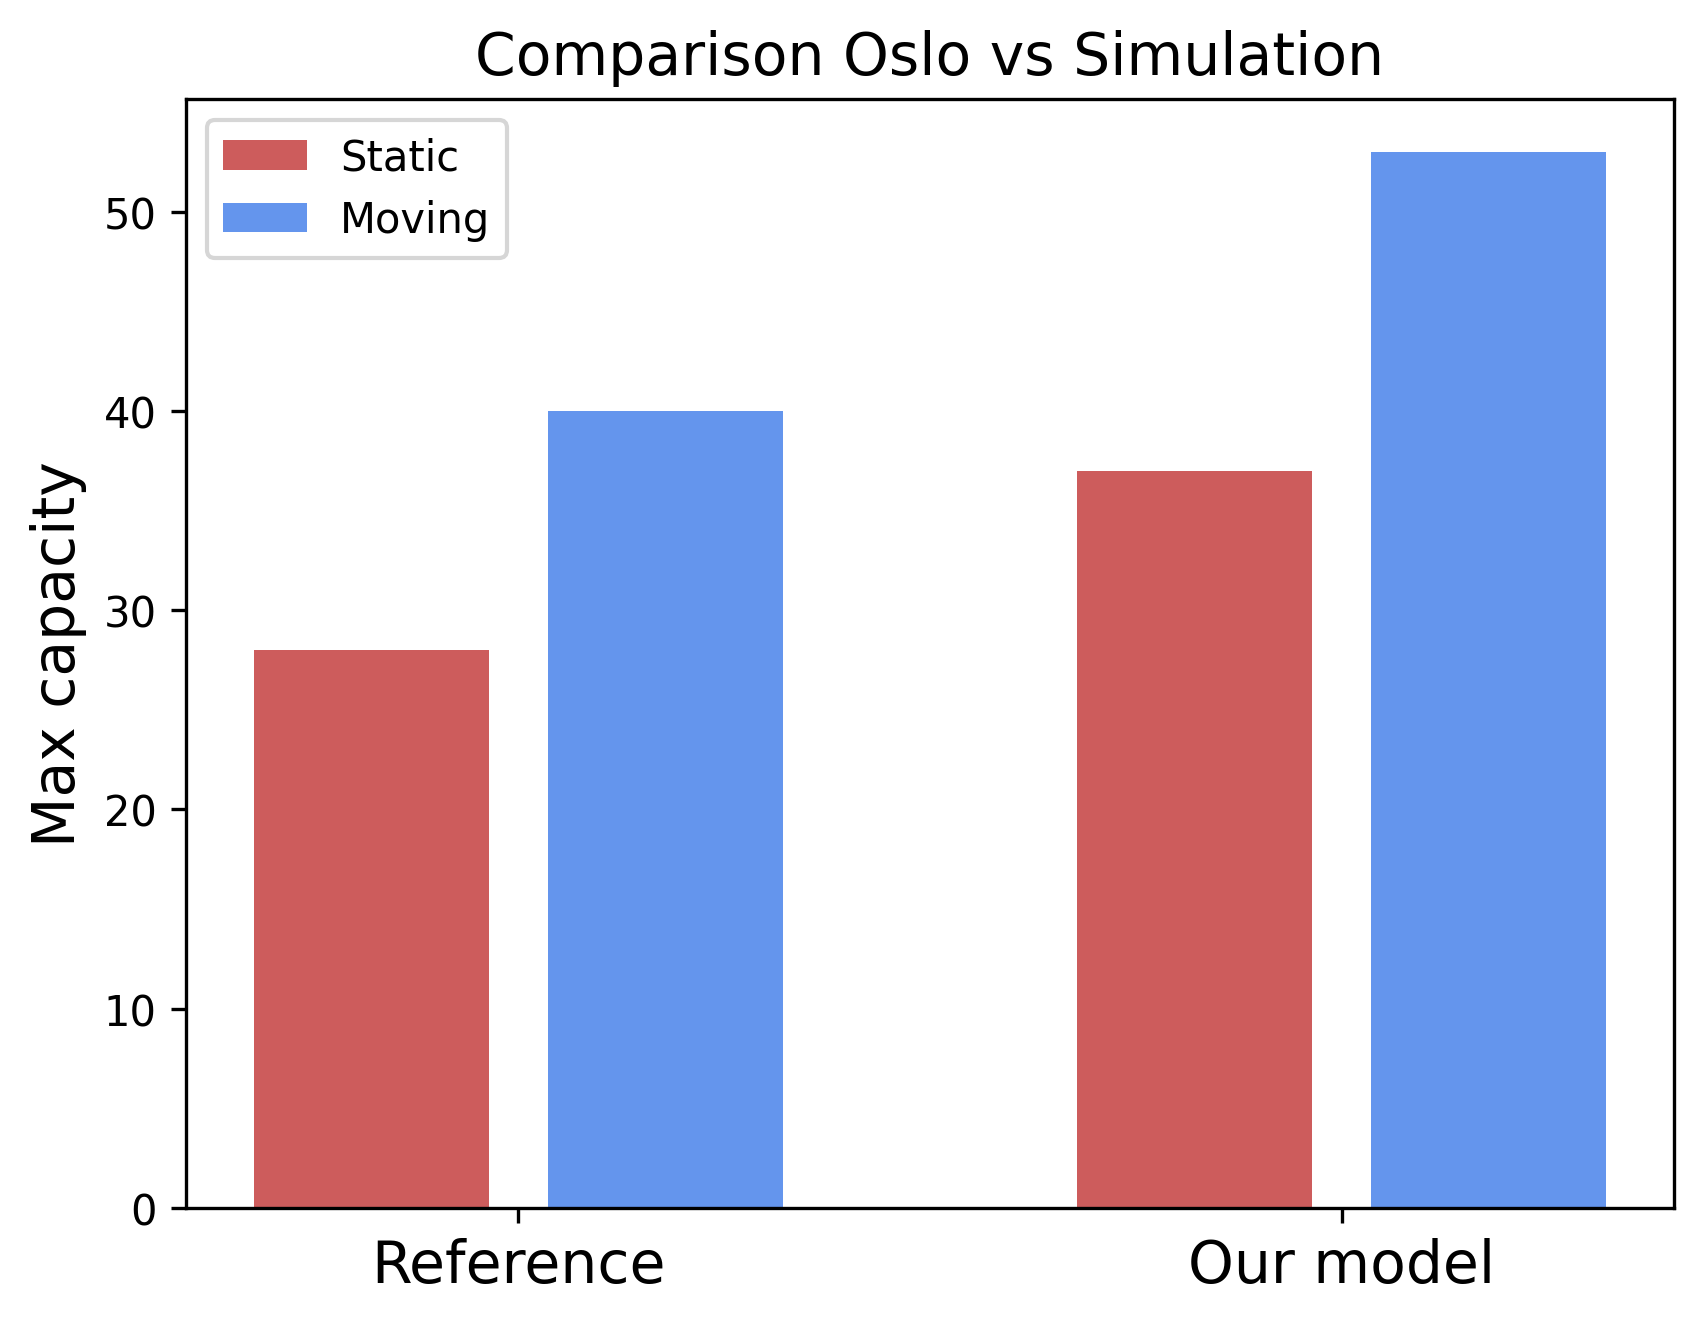
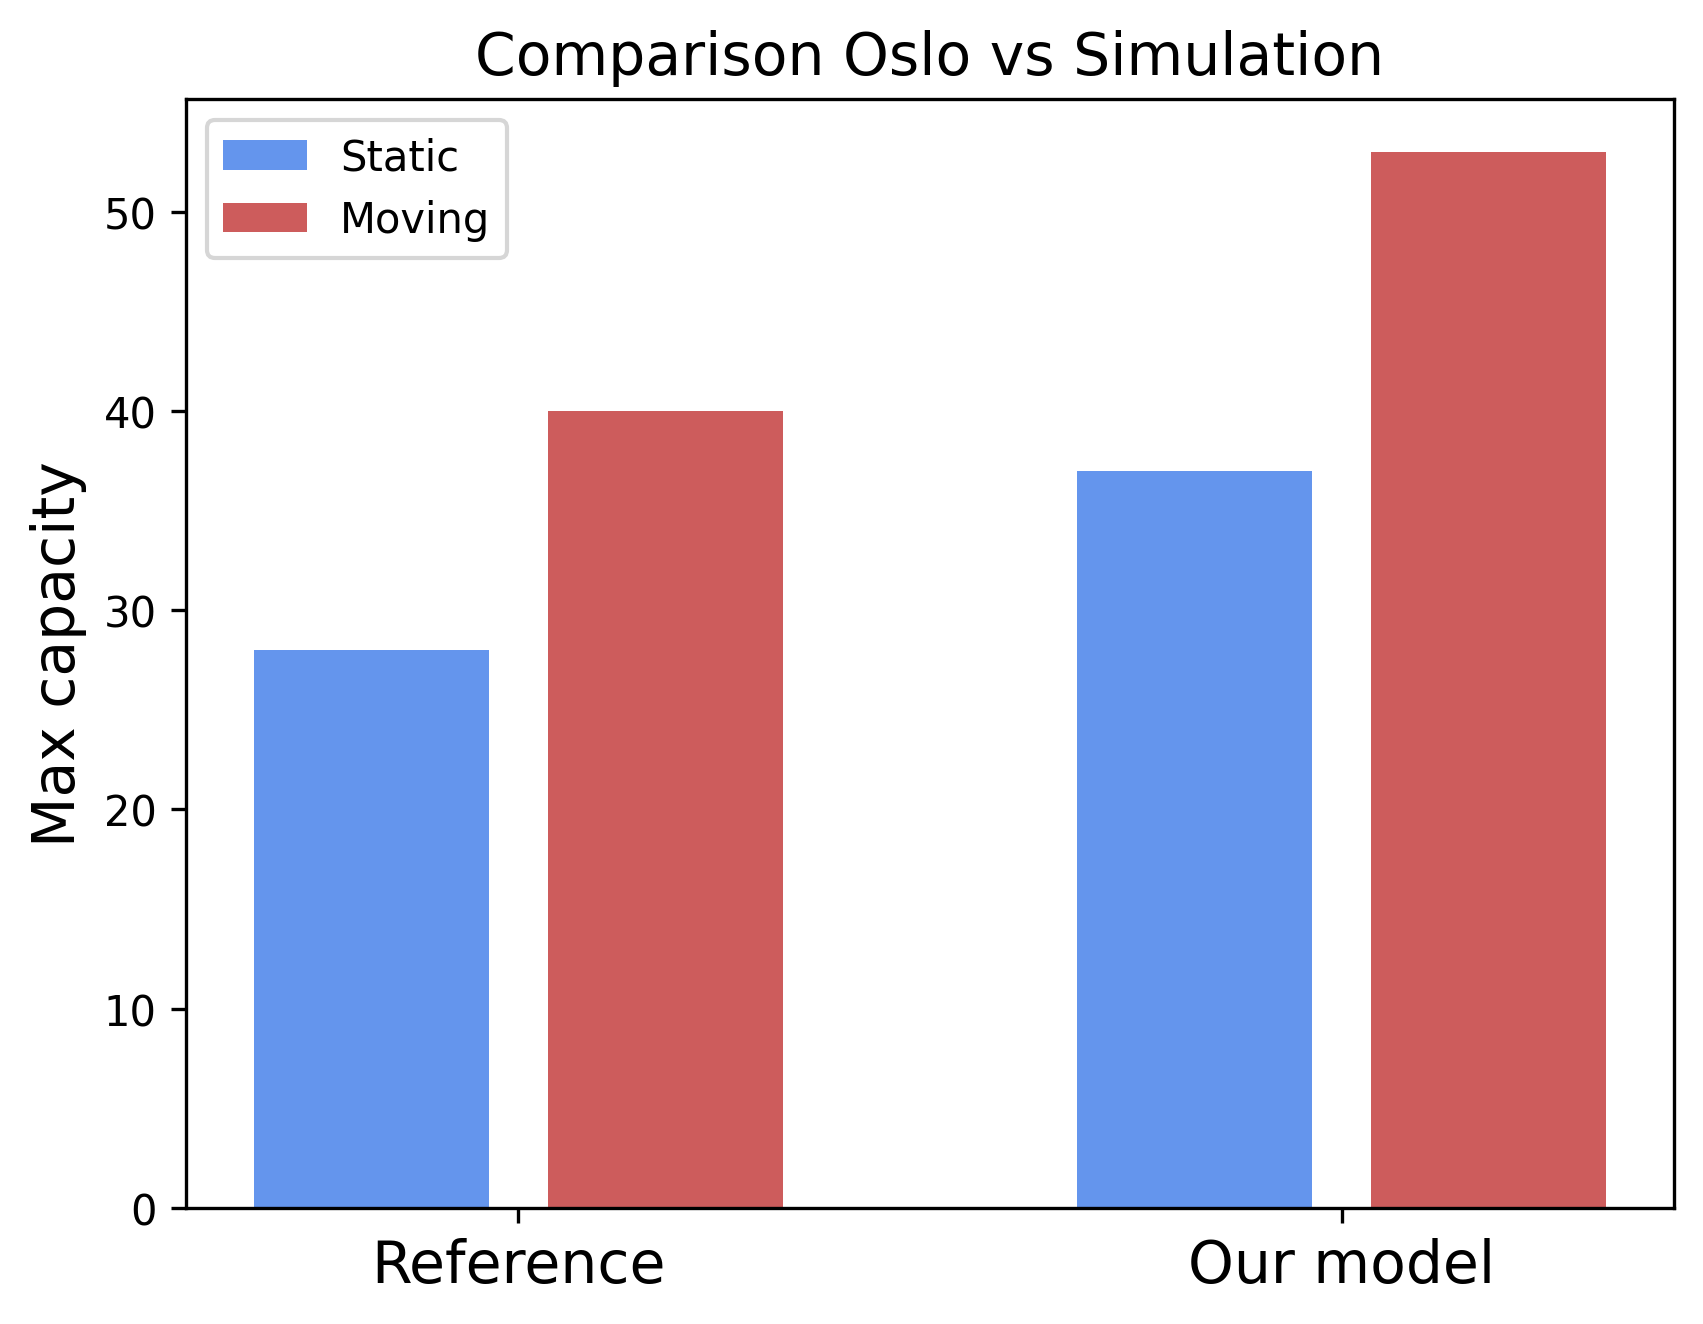
Capacity per Number of Trains

diff --git a/analysis/capacityPerTrain.py b/analysis/capacityPerTrain.py
@@ -1,0 +1,31 @@
+import json
+import matplotlib.pyplot as plt
+
+with open("result.json", 'r') as fp:
+    data = json.load(fp)
+
+sprinter_data = data["sprinter"]
+max_trains = 25
+
+num_trains = [0]
+static_capacity = [0]
+moving_capacity = [0]
+i = 0
+for measurement in sprinter_data['wide']:
+    num_trains.append(measurement[0])
+    static_capacity.append(measurement[1][0][0])
+    moving_capacity.append(measurement[1][0][1])
+    i += 1
+    if i >= max_trains:
+        break
+
+plt.figure(figsize=(10,6))
+plt.plot(num_trains, static_capacity, label="Max Static Capacity", marker='o', color="cornflowerblue")
+plt.plot(num_trains, moving_capacity, label="Max Moving Capacity", marker='x', color="indianred")
+plt.xlabel("Number of trains", fontsize=15)
+plt.ylabel("Capacity", fontsize=15)
+plt.title("Capacity per Number of Trains", fontsize=15)
+plt.legend()
+plt.grid(True)
+plt.savefig("../plots/capacity_per_train.png", bbox_inches="tight", dpi=300)
+plt.show()

diff --git a/analysis/Oslo_test.py b/analysis/Oslo_test.py
@@ -39,8 +39,8 @@ group_spacing = 0.7
 
 x = np.arange(len(groups)) * group_spacing
 plt.figure()
-plt.bar(x - (width/2 + in_group_spacing), static_values, width, label='Static', color='indianred')
-plt.bar(x + (width/2 + in_group_spacing), moving_values, width, label='Moving', color='cornflowerblue')
+plt.bar(x - (width/2 + in_group_spacing), static_values, width, label='Static', color='cornflowerblue')
+plt.bar(x + (width/2 + in_group_spacing), moving_values, width, label='Moving', color='indianred')
 
 plt.ylabel('Max capacity', fontsize=14)
 plt.xticks(x, groups, fontsize=14)
